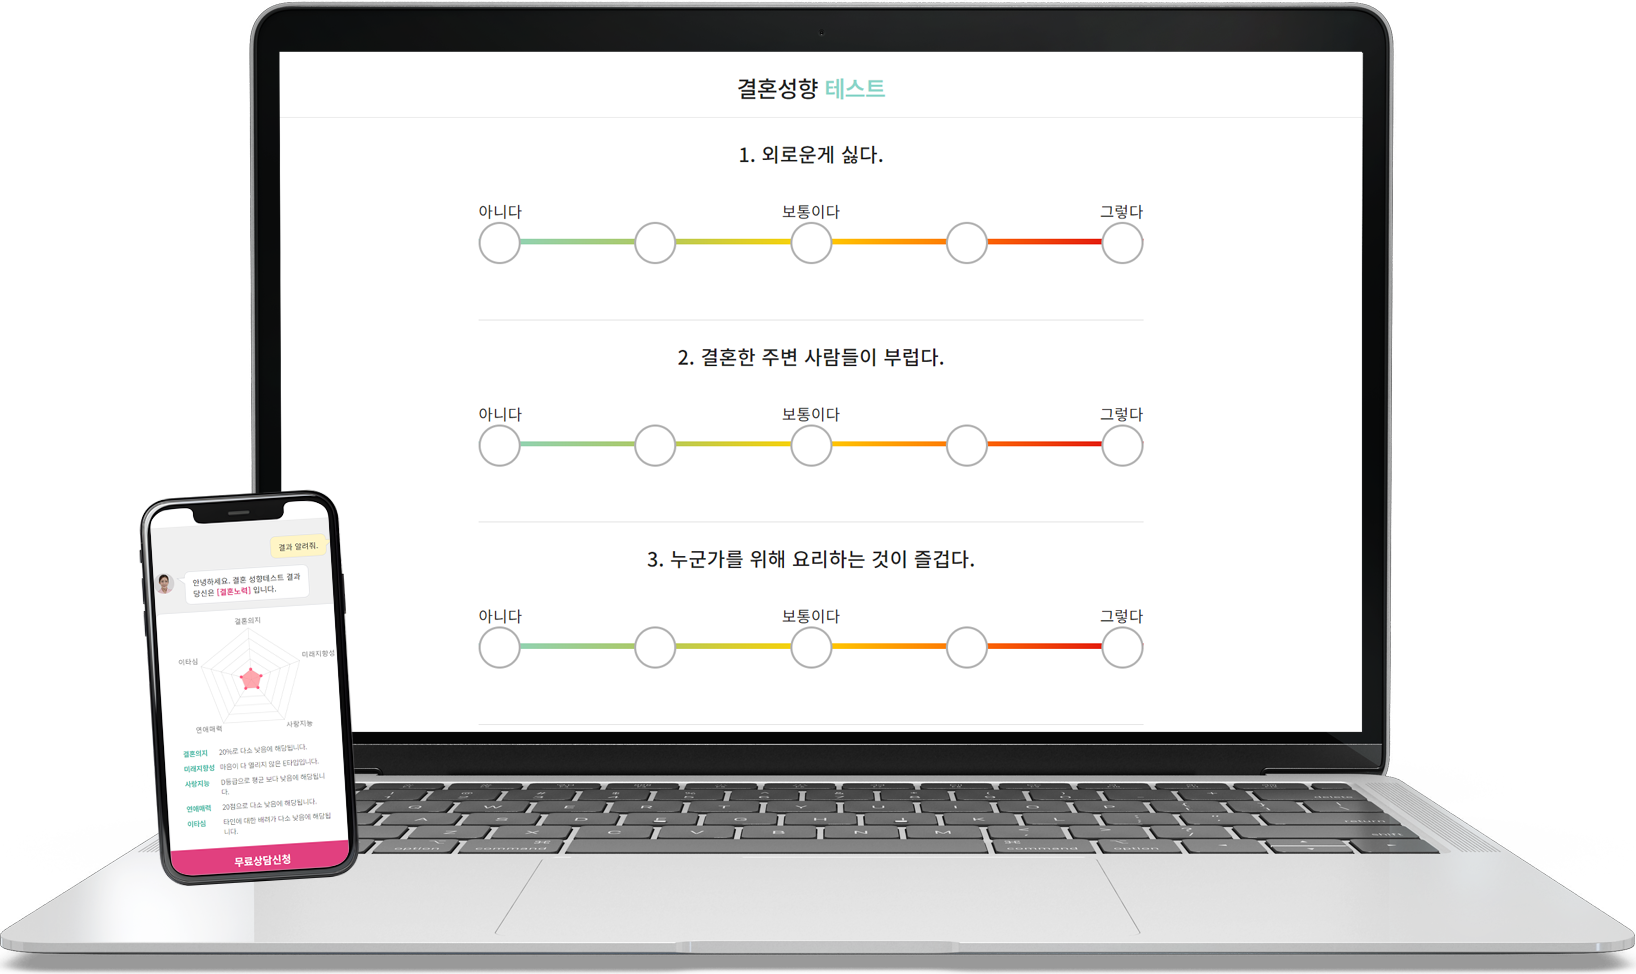
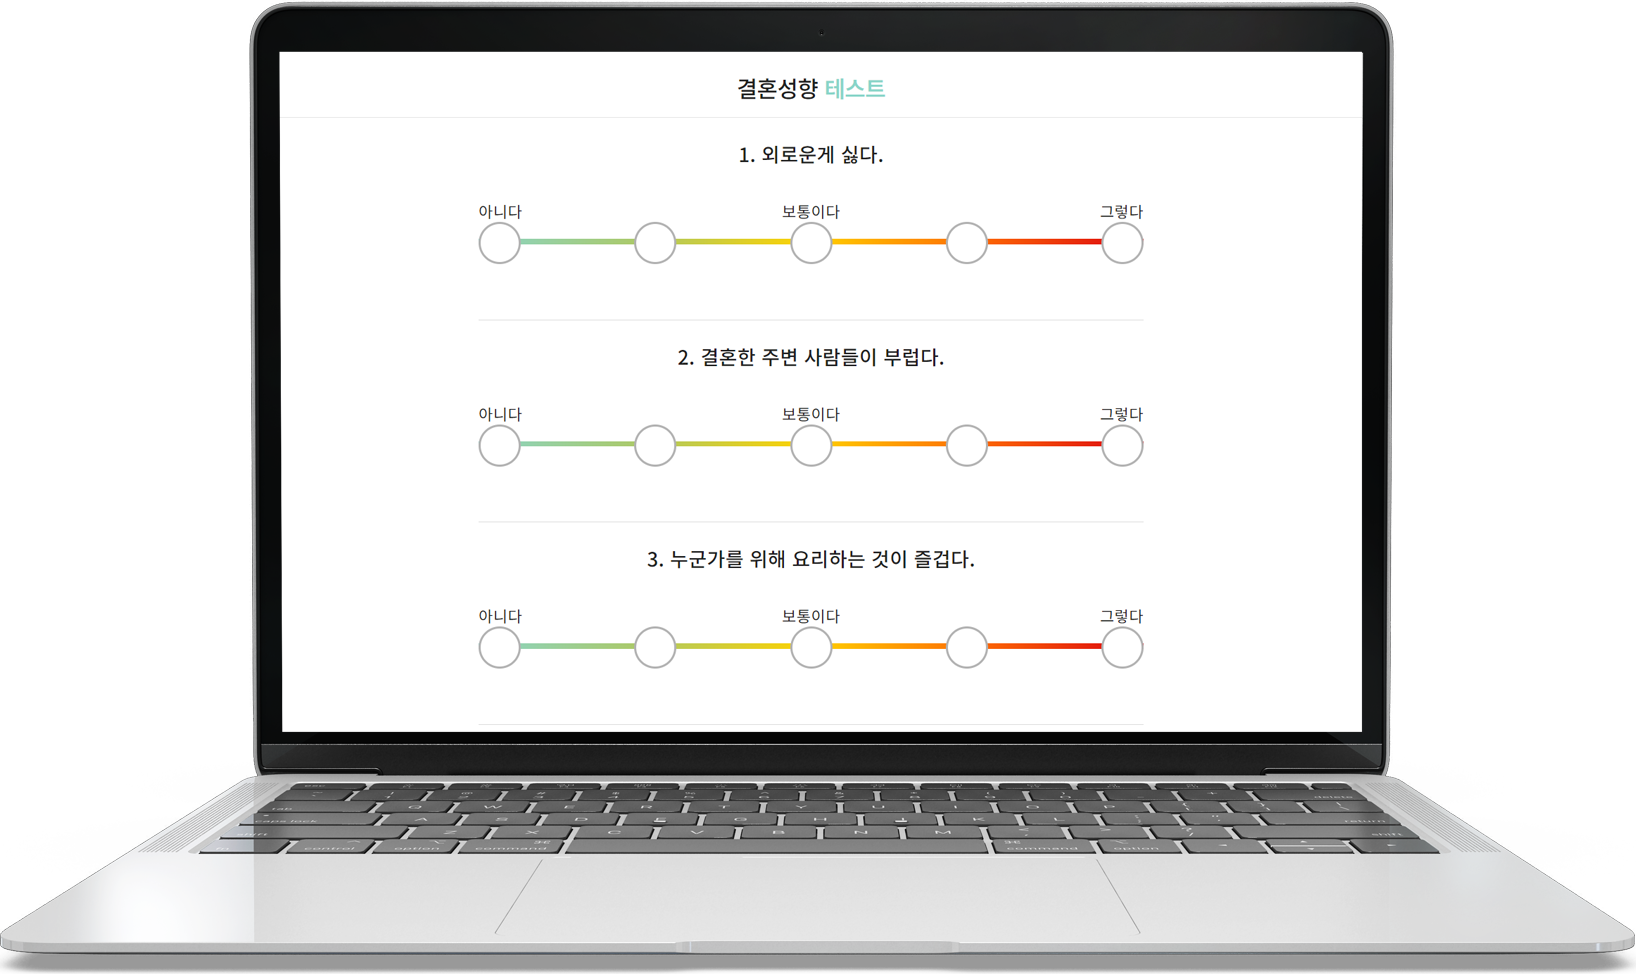
이미지 재 수정

Changed region(s): [[0.0623, 0.4928, 0.2182, 0.924]]

diff --git a/src/notion/pages/Detail.js b/src/notion/pages/Detail.js
@@ -7,8 +7,8 @@ import { useDataContext } from '../components/DataContext';
 const importAll = (r) => r.keys().map(r);
 const images = importAll(require.context('notion/assets/outputs', false, /laptop_\d+\.png$/));
 
-const thumbsAll = (r) => r.keys().map(r);
-const thumbs = thumbsAll(require.context('notion/assets/outputs', false, /phone_\d+\.png$/));
+const thumbs = importAll(require.context('notion/assets/outputs', false, /phone_\d+\.png$/));
+const details = importAll(require.context('notion/assets/outputs', false, /detail_\d+\.png$/));
  
 function Detail() {
   const { id } = useParams();
@@ -69,15 +69,15 @@ function Detail() {
       </div>
       <div className="body">
         <div className="full">
-          <div className={`thumb thumb_${item.key}`} style={{ backgroundImage: `url(${images[item.key - 1]})` }}></div>
+          <img className="detail_thumb" src={`${images[item.key - 1]}`} alt="피씨 목업" />
         </div>
         <div className="half">
           <div>
-           <div className={`thumb thumb_${item.key}`} style={{ backgroundImage: `url(${thumbs[item.key - 1]})` }}></div>
+           <img className="detail_thumb" src={`${thumbs[item.key - 1]}`} alt="모바일 목업" />
             <ul className="detail-txt-list"></ul>
           </div>
           <div>
-            sssssssssssss디테일
+            <img className="detail_thumb" src={`${details[item.key - 1]}`} alt="상세 이미지" />
           </div>
         </div>
       </div>

diff --git a/src/notion/styles/scss/pages.scss b/src/notion/styles/scss/pages.scss
@@ -112,15 +112,6 @@
     padding-top: 20px;
     border-top: 1px solid $gray;
 
-    .thumb {
-      aspect-ratio: 1/1;
-      background: {
-        repeat: no-repeat;
-        size: contain;
-        position: center center;
-      }
-      
-    }
     .half {
       display: grid;
       grid-template-columns: 1fr 1fr;

diff --git a/src/notion/styles/scss/layout.scss b/src/notion/styles/scss/layout.scss
@@ -7,8 +7,8 @@ html, body {
   color: $black;
 }
 .App {height: auto !important;}
-.resume {max-width: 768px; margin: 0 auto; padding: 0 20px;} */
-
+.resume {max-width: 768px; margin: 0 auto; padding: 0 20px;} 
+*/
 
 
 

diff --git a/src/styles/import.css b/src/styles/import.css
@@ -1,5 +1,4 @@
 
 @import "/src/styles/layer.css";
 @import "/src/styles/common.css";
-
 @import "/src/styles/res.css";
